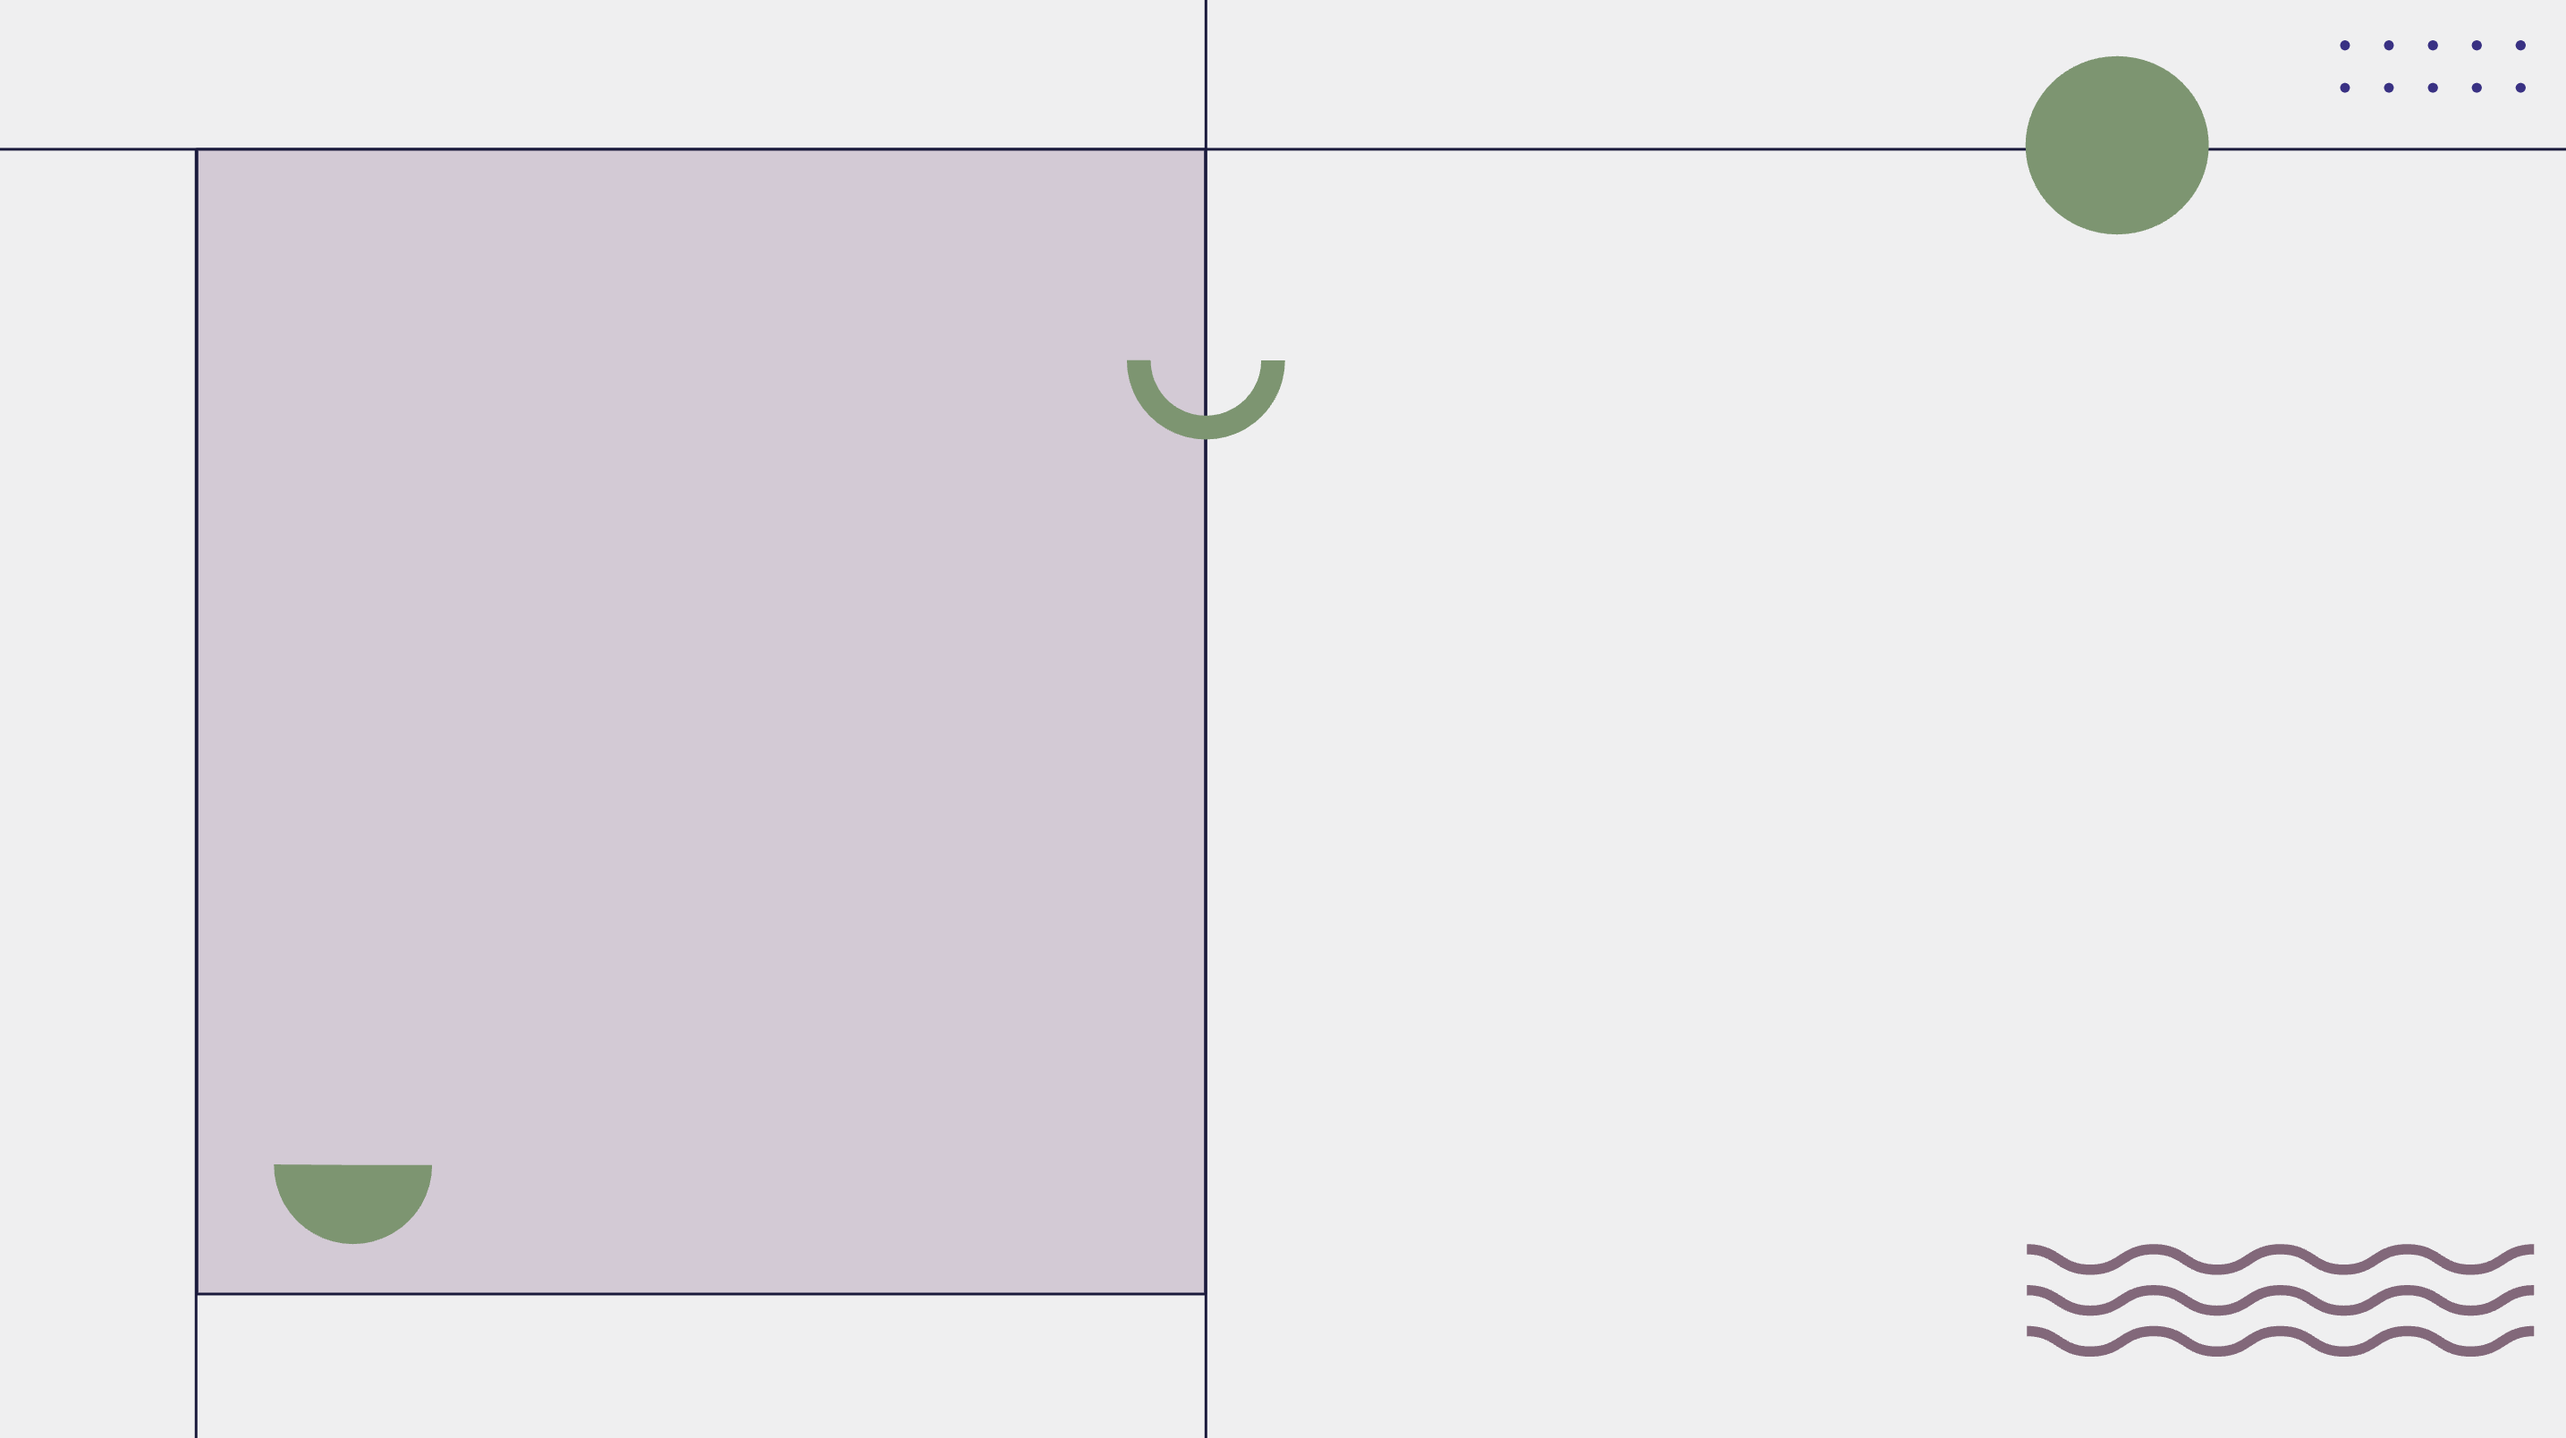
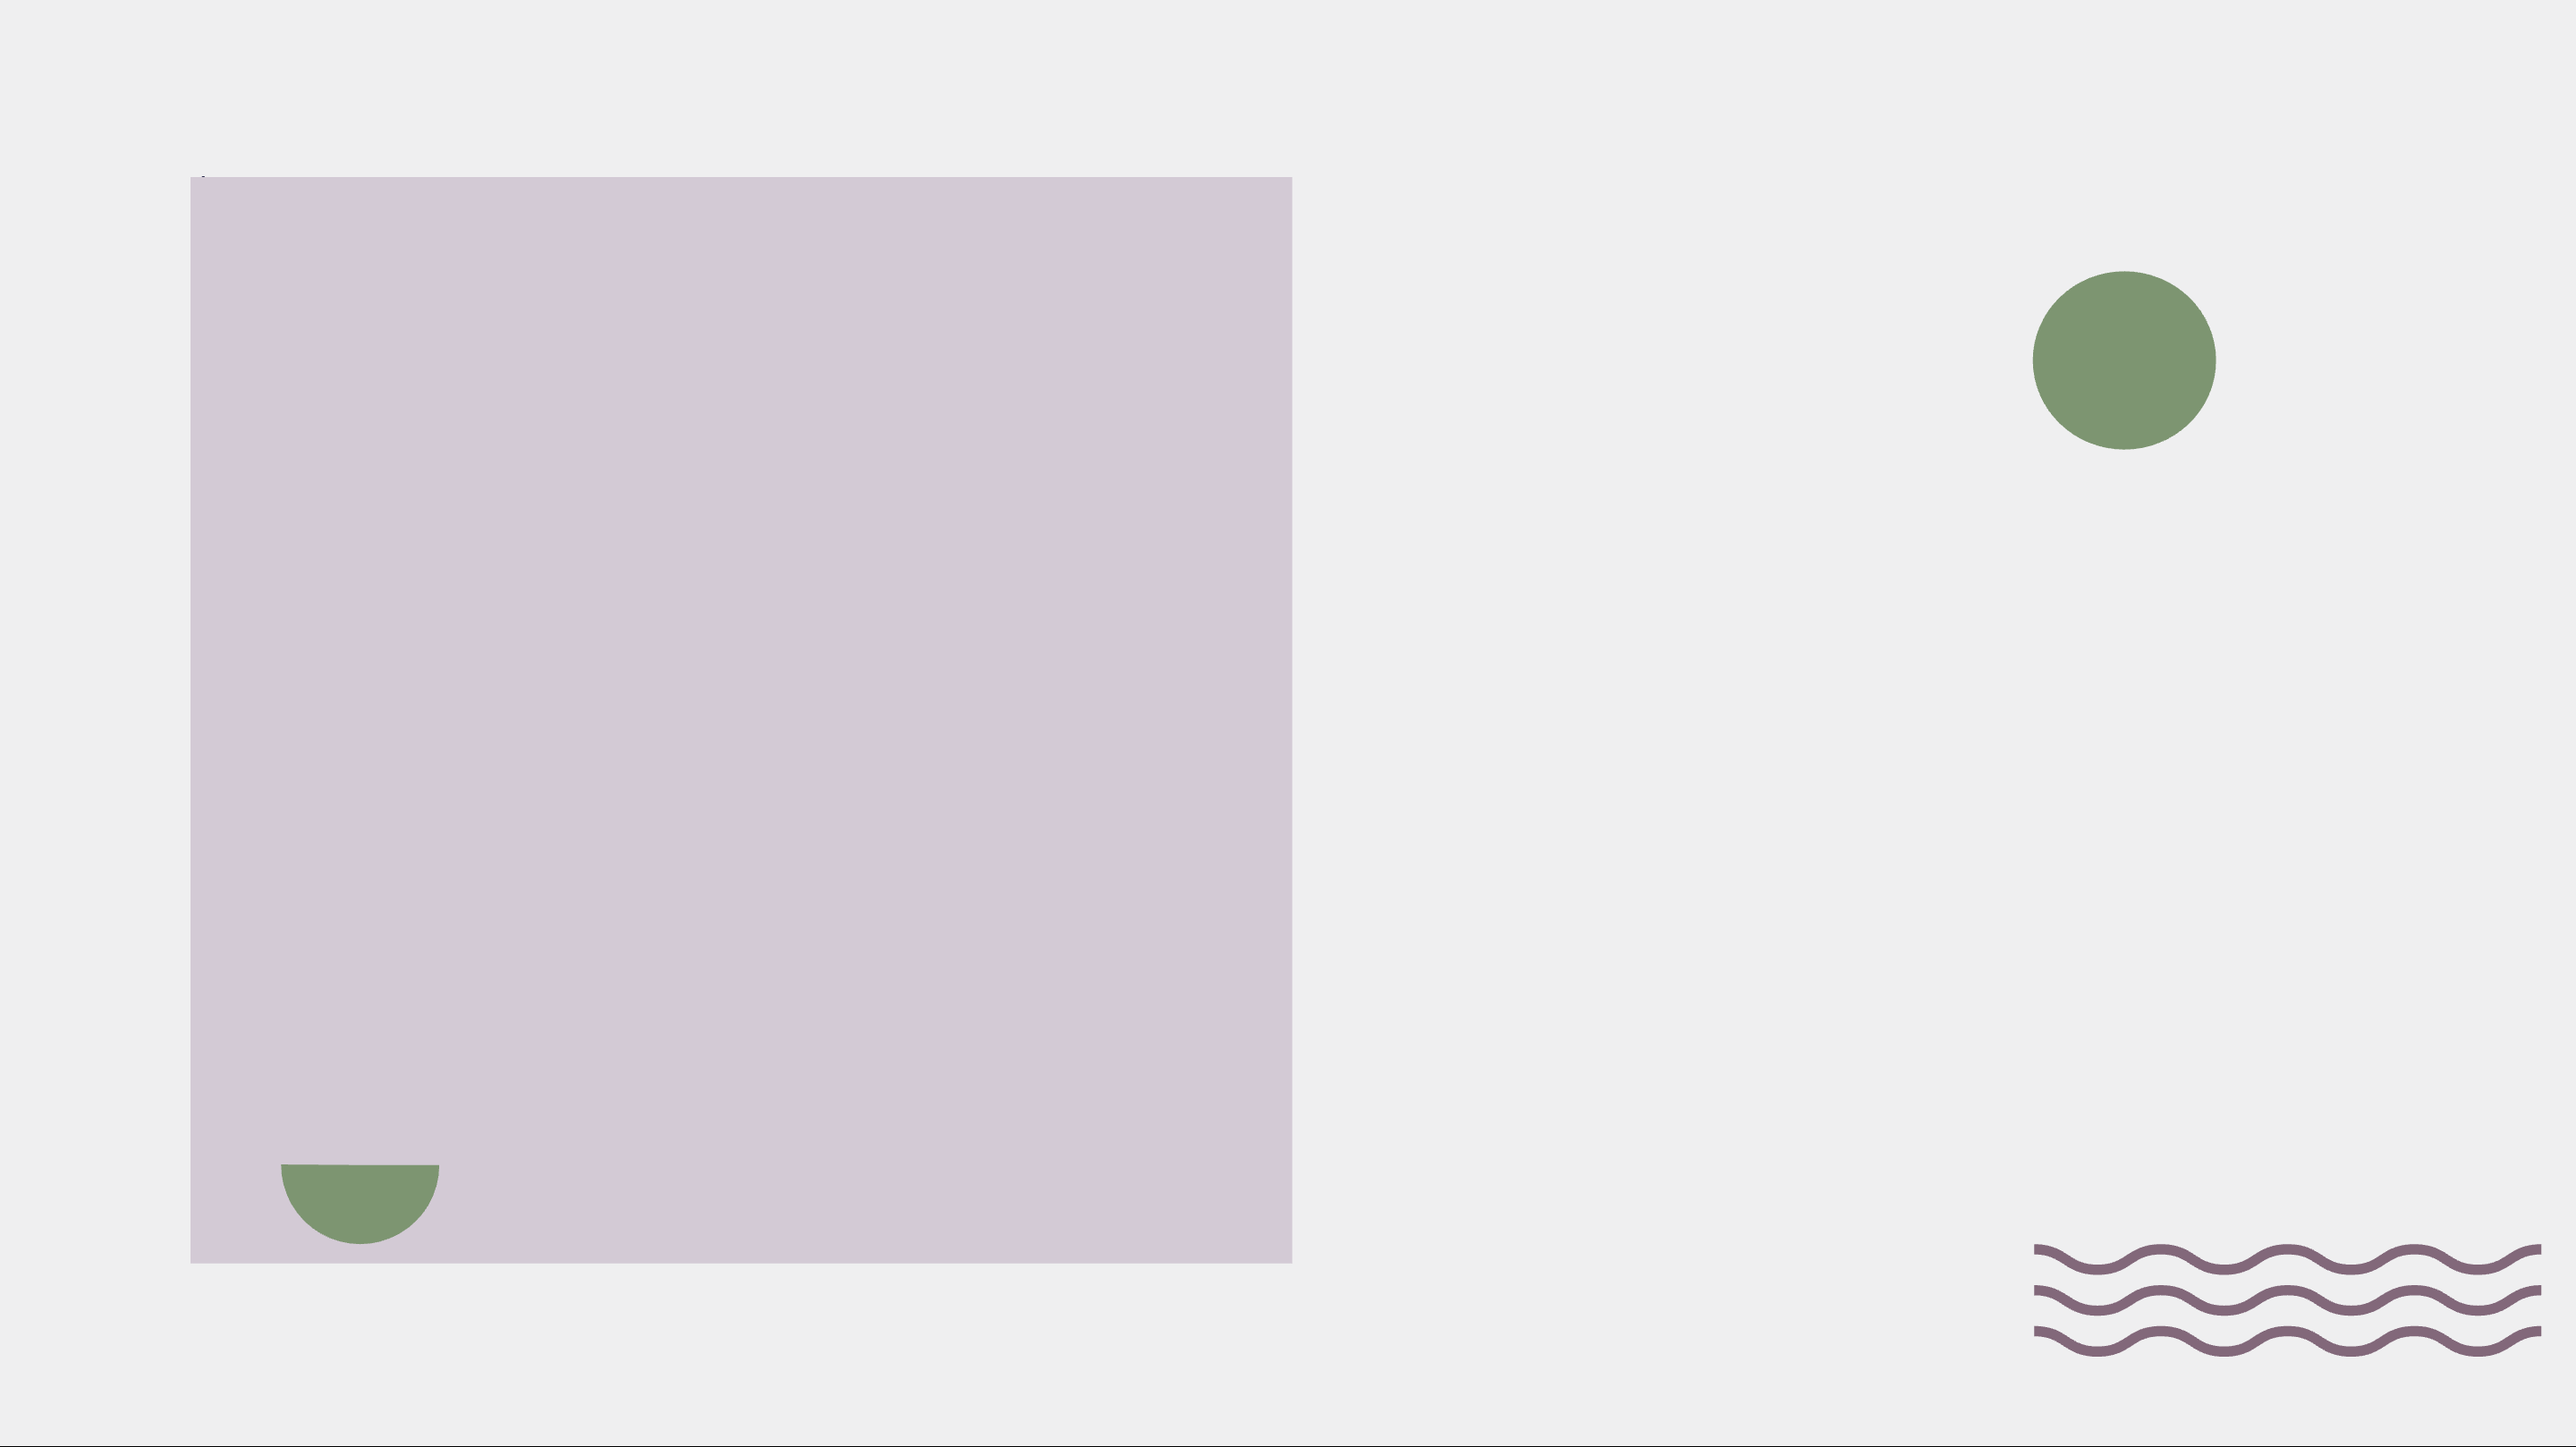
updated and fixed assets

diff --git a/src/pages/Home/Home.module.css b/src/pages/Home/Home.module.css
@@ -11,15 +11,19 @@
   background-color: var(--thistle);
 }
 
+/* 12.3% */
+/* 7.43% */
+
 .homeContent {
   display: grid;
   grid-area: main;
   color: var(--dark-slate-grey);
   background-image: url('/NorthBoutiqueMainContentBackground.png');
-  background-size: cover;
+  background-size: contain;
+  background-repeat: no-repeat;
   vertical-align: middle;
-  grid-template-columns: 0.1fr 1fr 0.1fr;
-  grid-template-rows: 0.2fr 1fr;
+  grid-template-columns: 7.43% 1fr 7.43%;
+  grid-template-rows: 12.3% 1fr;
   grid-template-areas:
     'navbar  navbar navbar'
     '. innerMain .';
@@ -32,7 +36,7 @@
   display: grid;
   justify-content: center;
   align-items: center;
-  grid-template-columns: 1.13fr 1fr;
+  grid-template-columns: 1fr 1fr;
   grid-template-rows: 1fr;
   grid-template-areas: 'cta .';
 }
@@ -40,7 +44,13 @@
 .headerContainerInnerCTA {
   grid-area: cta;
   text-align: center;
-  height: 50%;
+  height: 75%;
+}
+
+.headerContainerInnerCTA h2 {
+  text-align: center;
+  margin-bottom: 3rem;
+  font-weight: 300;
 }
 
 .contactUsButtonHome {
@@ -78,13 +88,25 @@
   grid-area: c;
 }
 
-.homeContent h2 {
-  text-align: center;
-  margin-bottom: 3rem;
-  font-weight: 300;
-}
-
 .contactContainer {
   grid-area: contact;
   margin-bottom: 2rem;
+}
+
+@media (max-width: 1000px) {
+  .homeContent {
+    background-image: none;
+    background-color: var(--thistle);
+  }
+
+  .headerContainer {
+    grid-area: innerMain;
+    height: 100%;
+    display: grid;
+    justify-content: center;
+    align-items: center;
+    grid-template-columns: 1fr 1fr;
+    grid-template-rows: 1fr;
+    grid-template-areas: 'cta cta';
+  }
 }

diff --git a/src/components/navbar/Navbar.tsx b/src/components/navbar/Navbar.tsx
@@ -15,7 +15,7 @@ const Navbar = () => {
       <Box>
         <div className={styles.brandContainer}>
           <Image mr={3} height="35px" src="/NorthBoutiqueIcon.png" />
-          <Text>North Boutique</Text>
+          <Text fontWeight={600}>North Boutique</Text>
         </div>
       </Box>
       <Box display={{ base: 'block', md: 'none' }} onClick={() => {}}>

diff --git a/src/components/navbar/Navbar.module.css b/src/components/navbar/Navbar.module.css
@@ -1,8 +1,5 @@
 .navbarContainer {
   grid-area: navbar;
-  z-index: 100;
-  height: 80px;
-  background-color: var(--anti-flash-white);
 }
 
 .brandContainer {
